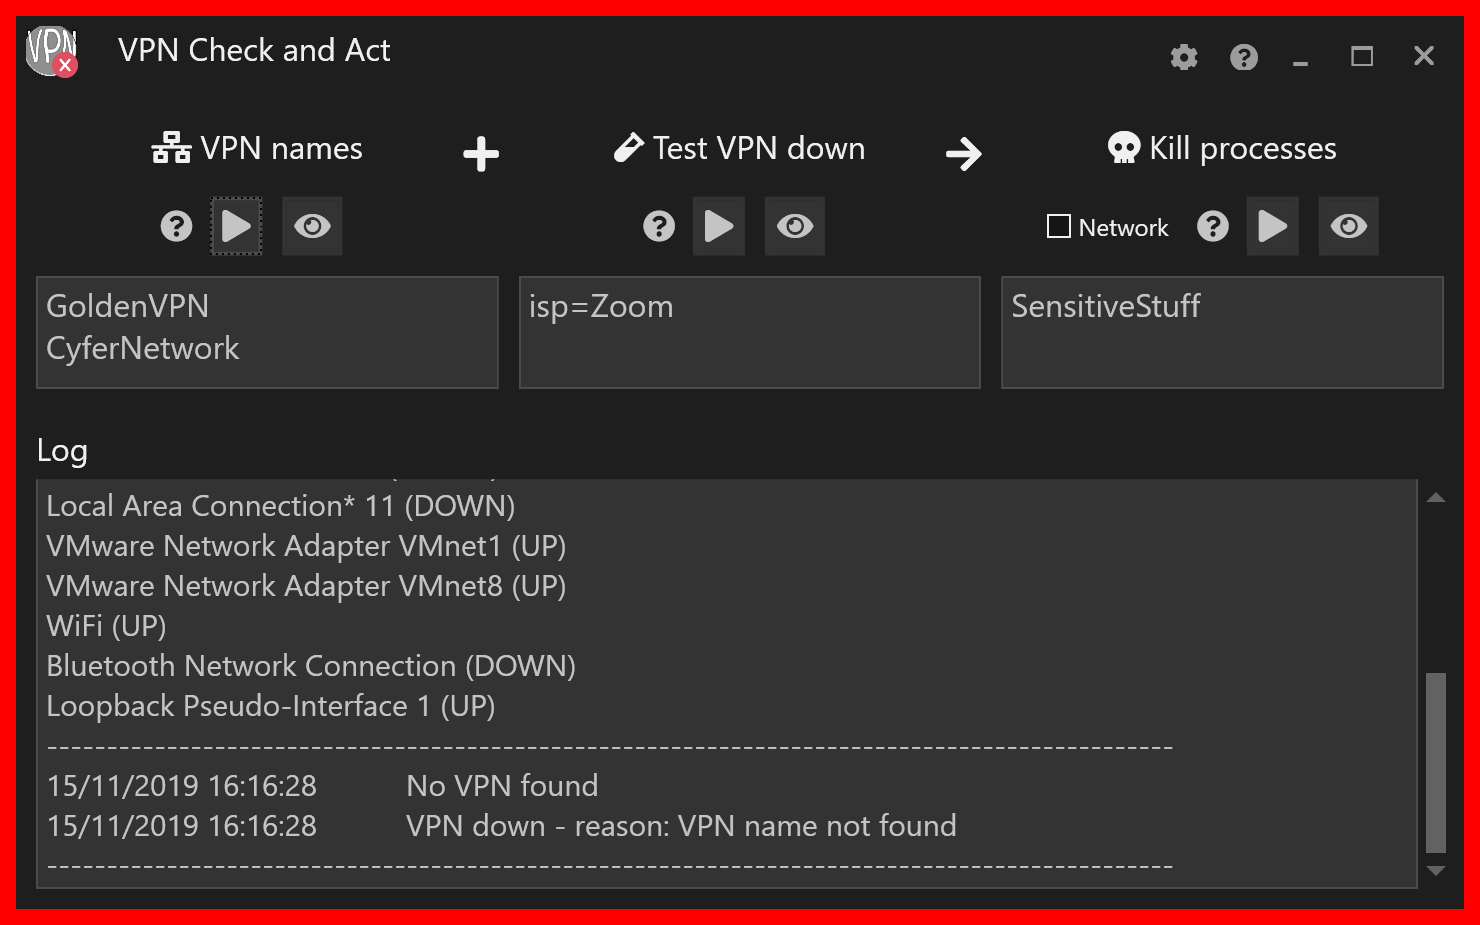
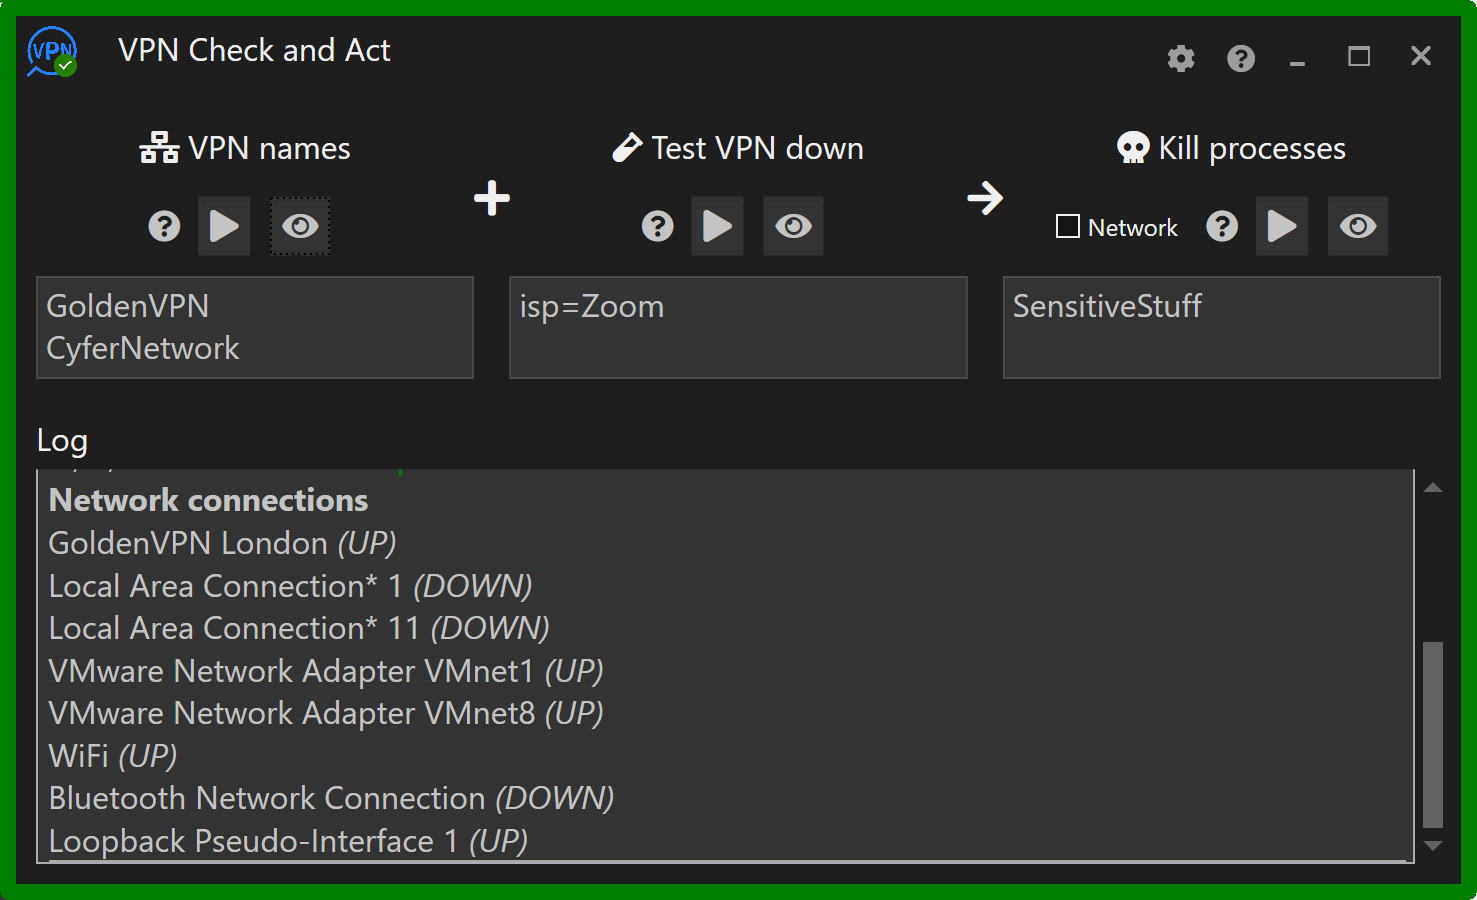
New gui screenshots

diff --git a/index.html b/index.html
@@ -3,26 +3,26 @@
 <meta charset="utf-8" />
   <link rel="stylesheet" href="https://use.fontawesome.com/releases/v5.11.2/css/all.css">
   <link rel="stylesheet" href="https://use.fontawesome.com/releases/v5.11.2/css/v4-shims.css">
-<title>VPN Check and Act Configuration</title>
+<title><b>VPN Check and Act</b> Configuration</title>
 </head>
 
 <body>
-<h1>VPN Check and Act Instructions</h1>
+<h1><b>VPN Check and Act</b> Instructions</h1>
 <ul>
 <li><h3> <A href="#Configuraron">Configuration</A></h3>
 <li><h3> <A href="#Check">Application Pre-Launch VPN Check</A></h3>
 </ul>
 <a id="Configuration"></a>
 <h2>Configuration</h2>
-<p>There are three steps to configuring VPN Check and Act.</p>
+<p>There are three steps to configuring <b>VPN Check and Act</b>.</p>
 <ol>
 <li>Enter the names of the VPNs to be monitored.
-<li>Enter the tests to determine if the network traffic is using a VPN. This step is optional, but if it is not configured, whilst VPN Check and Act will still be able to detect if a VPN is up, it will not be able to determine whether the VPN is operating correctly.
-<li>Enter the actions to take if the VPN fails. This will be either killing specific applications or the entire network.
+<li>Enter the tests to determine if the network traffic is using the operational VPN. This step is optional. If it is not configured, whilst <b>VPN Check and Act</b> will be able to determine if a VPN is active, it will not be able to determine whether the VPN is operating correctly.
+<li>Enter actions to take if the VPN fails. These will be to either kill a specific application or kill the entire network.
 </ol>
-<p>Please note that all entries are case-insensitive. (E.g. entering goldenVPN will detect GoldenVPN.)</p>
+<p>Please note that all entries are case-insensitive. (E.g. entering goldenvpn will detect GoldenVPN.)</p>
 <p>
-The three steps correspond to the three text boxes along the top half of the VPN Check and Act user interface. Each text box has accompanying three icons with the following functions.
+The three steps correspond to the three text boxes along the top half of the <b>VPN Check and Act</b> user interface. Each text box has three accompanying icons with the following functions.
 </p>
 <ul>
 <li><i class="fa fa-question-circle"></i> Displays help for the setting
@@ -35,24 +35,32 @@ The three steps correspond to the three text boxes along the top half of the VPN
 </p>
 <p>
 <ul>
-<li>Start the VPN and then click <i class="fas fa-eye"></i> (#2).
-<li>The log (#4) will display the current network connections. Identify the operational VPN and choose text that differentiates the VPN from the other network connections. In the above example, 'GoldenVPN' is used. 'GoldenVPN Belgium' would also work but you may have other configurations of GoldenVPN, such as one that uses servers in London, which might be identified as 'GoldenVPN London' which, obviously, would not match the 'GoldenVPN Belgium' text.
+<li>Start your VPN and then click <i class="fas fa-eye"></i> (#2).
+<li>The log (#4) will display the current network connections (above screenshot). From the log, identify your operational VPN and choose text that differentiates the VPN from the other network connections. In the above example, 'GoldenVPN' is used. 'GoldenVPN London' would also work but you may have other configurations of GoldenVPN, such as one that uses servers in Belgium, which might be identified as 'GoldenVPN Belgium'. This, obviously, would not match the 'GoldenVPN London' text.
 <li>Copy (or type) the chosen text into the box (#3).
-<li>Click <i class="fa fa-play"></i> (#1). If the name has been entered correctly and the VPN is still working, VPN Check and Act's border will turn green (below screenshot) and the log explains why the VPN is believed to be operational. 
+<li>Click <i class="fa fa-play"></i> (#1). If the name has been entered correctly and the VPN is still working, <b>VPN Check and Act's</b> border will turn green (below screenshot) and the log explains why the VPN is believed to be operational. 
+<li>(Note that in the above screenshot <b>VPN Check and Act's</b> border is grey, this indicates that the VPN can not be determined.)
 </ul>
 <p>
 <img style="margin:20px 20px;border:2px solid black;width:50%" src="Screenshots/screenshotA3.png" alt="Screenshot3" >
 </p>
 <h3>2. Entering the tests</h3>
 <p>
+<img style="margin:20px 20px;border:2px solid black;width:50%" src="Screenshots/screenshotA4.png" alt="Screenshot4" >
+</p>
+
+<ul>
+<li>Disconnect the VPN (the border becomes red) and click <i class="fas fa-eye"></i> (#6).
+<li>The log will display the current http headers coming from your computer as viewed by an external observer (above screenshot). When a VPN is not operational, the headers will present the computer's true geographic values but when a VPN is operational these values will be from the active VPN server.
+
+</ul>
+<p>
 <img style="margin:20px 20px;border:2px solid black;width:50%" src="Screenshots/screenshotA5.png" alt="Screenshot4" >
 </p>
 <ul>
-<li>Disconnect the VPN (the border becomes red) and click <i class="fas fa-eye"></i> (#6).
-<li>The log will display the current http headers coming from your computer as viewed by an external observer. When a VPN is not operational, the headers will present the computer's true geographic values but when a VPN is operational these values will be from the active VPN server.
-<li>Enter one or more tests that are <b>true</b> when the VPN is <b>not</b> operational. Some obvious tests such as using the value of the city don't always work well. You may find that, the city changes even when connecting from the same location. Testing the country would be safer, but then it negates using a VPN that is based in your home country - which may, or may not, not be a problem for you. A test that usually works well is the name of the ISP, as in the above example. Copy the desired test(s) into the box (#7).
-<li>Click <i class="fa fa-play"></i> (#5) and the log should state that the VPN is down because one of the tests is true. (See the first part of the log in the screenshot below.)
-<li>Start the VPN and click <i class="fa fa-play"></i> again. The result should be the border turns green and the log states that all tests were not true and hence the VPN is up.
+<li>Enter one or more tests that are <b>true</b> when the VPN is <b>not</b> operational. Some obvious tests such as using the value of the city don't always work well. You may find that, the city changes even when connecting from the same location. Testing the country would be safer, but that would mean it would not be possible to use a VPN that is based in your home country - which may, or may not, be a problem for you. A test that usually works well is the name of your ISP, as in the above example. Copy the desired test(s) into the box (#7).
+<li>Click <i class="fa fa-play"></i> (#5) and the log should state that the VPN is down because one of the tests is true (above screenshot).
+<li>Start the VPN and the border should go green and the log should state the VPN is up. Now click <i class="fa fa-play"></i> (#5) again. The result should be the log states that one of the tests was false and therefore the VPN is up (below screenshot).
 </ul>
 <p>
 <img style="margin:20px 20px;border:2px solid black;width:50%" src="Screenshots/screenshotA6.png" alt="Screenshot6" >
@@ -64,8 +72,8 @@ The three steps correspond to the three text boxes along the top half of the VPN
 <ul>
 <li>If the required action for when the VPN goes down is to stop all network traffic, check the network box (#11).
 <li>However, if the requirement is to only terminate certain applications, then the corresponding <b>process</b> names need to be entered into the box (#10). The process name is usually similar, but often not identical, to the application name. To obtain the process name, start the application (after starting the VPN if it is very sensitive) and click <i class="fas fa-eye"></i> (#9).
-<li>The log will show the running processes. (There will be quite a few.) Find the process that corresponds to the application that should be terminated when the VPN fails.
-<li>Enter the process name in the box (#10).
+<li>The log will show the running processes - there will be quite a few. Find the process that corresponds to the application that should be terminated when the VPN fails.
+<li>Enter the process name in the box (#10). (Above screenshot.)
 <li>Click <i class="fa fa-play"></i> (#8) and if the application is still running, the below warning will be shown. If you are happy with the warning, click the Yes button and confirm the application has been terminated. If it hasn't been terminated, probably the wrong process name was selected. (Try to find the correct process name and try again.) Obviously, in normal operation, the warning will not be shown but rather the application will be immediately terminated.
 </ul>
 <p>
@@ -73,13 +81,13 @@ The three steps correspond to the three text boxes along the top half of the VPN
 </p>
 <h3>4. That's it</h3>
 <ul>
-<li>VPN Check and Act should now be operational. To test, bring up and down the VPNs, and make sure the required applications are being terminated.
+<li><b>VPN Check and Act</b> should now be operational. To test, bring up and down your VPNs, and make sure the required applications are being terminated.
 <li>Each of the boxes #3, #7 and #10 can have multiple entries but only one entry per line. Whenever, you make a change to a box contents, click the corresponding <i class="fa fa-play"></i> button (it should be pulsing) to activate the change.
 <li>Some further settings/actions are available via the cog button (#12). The most important one being the purchase button! (If the trial period has ended, and hence you can't access the purchase button, please purchase via the Microsoft Store.)
 </ul>
 <a id="Check"></a>
 <h2>Application Pre-Launch VPN Check</h2>
-<p>There may be some applications that should be run only if a VPN is up. To enable this functionality, drag and drop the required application onto VPN Check and Act's main window (though not onto a text box). This will create a new shortcut called "VPNCA" + application's filename on the Windows desktop. Double clicking the shortcut will initiate a check on whether the VPN is up and if it is up, the application will be launched, and if not up, a user prompt will be shown.
+<p>There may be some applications that should be run only if a VPN is up. To enable this functionality, drag and drop the required application onto <b>VPN Check and Act's</b> main window (though not onto a text box). This will create a new shortcut called "VPNCA" + application's filename on the Windows desktop. Double clicking the shortcut will initiate a check on whether the VPN is up and if it is up, the application will be launched, and if not up, a user prompt will be shown.
 </p>
 <p>You will probably want to rename the shortcut to something more meaningful. Also you may wish to change the shortcut's icon.
 </p>
